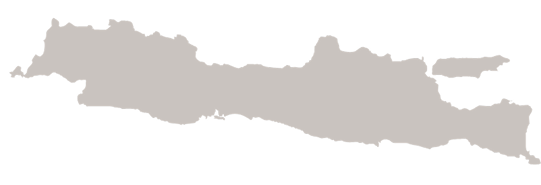
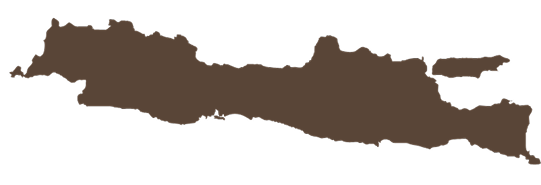
upd : illustrator

diff --git a/src/pages/culture/PulauBudaya.jsx b/src/pages/culture/PulauBudaya.jsx
@@ -11,25 +11,25 @@ const islands = [
     name: "Pulau Sumatera",
     description:
       "Pulau dengan kekayaan budaya Aceh, Minangkabau, Batak, dan Melayu. Sumatera juga dikenal dengan keindahan alamnya yang luas.",
-    image: "/illustrasi/budaya/peta/jawa.png",
+    image: "/illustrasi/budaya/peta/sumatera.png",
   },
   {
     name: "Pulau Kalimantan",
     description:
       "Budaya Dayak dengan rumah panjang, tarian tradisional, dan kekayaan hutan tropis terbesar di Indonesia.",
-    image: "/illustrasi/budaya/peta/jawa.png",
+    image: "/illustrasi/budaya/peta/kalimantan.png",
   },
   {
     name: "Pulau Sulawesi",
     description:
       "Budaya Toraja, Minahasa, Bugis, dan Mandar yang penuh warna serta keindahan lautnya yang mendunia.",
-    image: "/illustrasi/budaya/peta/jawa.png",
+    image: "/illustrasi/budaya/peta/sulawesi.png",
   },
   {
     name: "Pulau Papua",
     description:
       "Tradisi suku Dani, Asmat, serta kekayaan seni ukir dan tari khas Papua yang mendalam.",
-    image: "/illustrasi/budaya/peta/jawa.png",
+    image: "/illustrasi/budaya/peta/papua.png",
   },
 ];
 
@@ -69,7 +69,7 @@ function TiltCard({ island }) {
         <img
           src={island.image}
           alt={island.name}
-          className="w-3/4 opacity-50 group-hover:opacity-20 transition duration-500 object-contain"
+          className="w-3/4 opacity-20 group-hover:opacity-20 transition duration-500 object-contain"
         />
       </div>
 
@@ -94,12 +94,20 @@ function TiltCard({ island }) {
 
 export default function Budaya() {
   return (
-    <section id="pulau" className="bg-primary-100 relative min-h-screen py-20 px-6">
+    <section
+      id="pulau"
+      className="bg-primary-100 relative min-h-screen"
+    >
+      <img
+        src="/wave/map.png"
+        alt="Wave"
+        className="w-full h-56 md:h-full object-cover will-change-transform"
+      />
       <div
         className="absolute inset-0 bg-[url('/wave/bg.svg')] bg-cover bg-center opacity-10 will-change-transform"
         style={{ backgroundAttachment: "fixed" }}
       />
-      <div className="max-w-7xl mx-auto grid md:grid-cols-2 gap-12 items-start z-20">
+      <div className="max-w-7xl mx-auto grid md:grid-cols-2 gap-12 items-start z-20 ">
         {/* Left side - Text */}
         <div className="space-y-3 text-left flex flex-col items-center md:items-start">
           <img

diff --git a/src/pages/home/Peta.jsx b/src/pages/home/Peta.jsx
@@ -13,7 +13,7 @@ const Peta = () => {
         style={{ backgroundAttachment: "fixed" }}
       />
 
-      <div className="absolute top-0 w-full overflow-hidden leading-[0]  z-20 will-change-transform">
+      <div className="absolute top-0 w-full overflow-hidden leading-[0] z-20 will-change-transform">
         <img
           src="/wave/map.png"
           alt="Wave"
